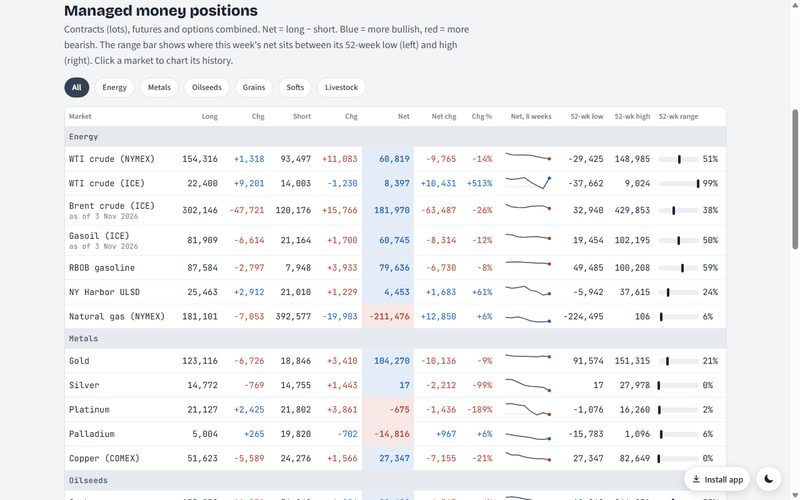
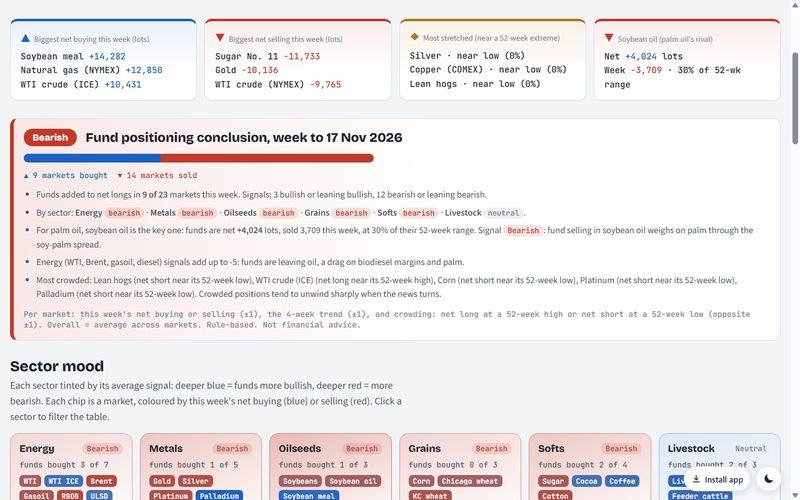
CFTC page: more colour - sector mood cards, who-bought/who-sold bar chart, heat-shaded table, accent cards, shaded net history

diff --git a/cftc-positions/index.html b/cftc-positions/index.html
@@ -20,7 +20,12 @@
   .wrap { max-width: 1560px; margin: 0 auto; display: grid; gap: 28px; }
   .asof { font: 500 13px var(--mono); color: var(--accent); }
   .kpis { display: grid; grid-template-columns: repeat(auto-fit, minmax(min(100%, 230px), 1fr)); gap: 12px; }
-  .kpi { background: var(--surface); border: 1px solid var(--line); border-radius: 12px; padding: 14px 16px; display: grid; gap: 6px; }
+  .kpi { background: var(--surface); border: 1px solid var(--line); border-top: 4px solid var(--s3); border-radius: 12px; padding: 14px 16px; display: grid; gap: 6px; box-shadow: 0 1px 2px rgba(0,0,0,.04); }
+  .kpi.kb { border-top-color: var(--gain); background: linear-gradient(180deg, color-mix(in srgb, var(--gain) 9%, var(--surface)), var(--surface) 70%); }
+  .kpi.ks { border-top-color: var(--loss); background: linear-gradient(180deg, color-mix(in srgb, var(--loss) 9%, var(--surface)), var(--surface) 70%); }
+  .kpi.ka { border-top-color: var(--gold); background: linear-gradient(180deg, color-mix(in srgb, var(--gold) 10%, var(--surface)), var(--surface) 70%); }
+  .kpi .ic { font: 700 18px var(--display); margin-right: 6px; }
+  .kb .ic { color: var(--gain); } .ks .ic { color: var(--loss); } .ka .ic { color: var(--gold); }
   .kpi .k { font-size: 13px; color: var(--muted); } .kpi .v { font: 500 14px/1.6 var(--mono); }
   section.block { display: grid; gap: 14px; }
   .sh { display: grid; gap: 4px; max-width: 82ch; } .sh h2 { font: 800 24px/1.15 var(--display); margin: 0; } .sh p { margin: 0; color: var(--ink-2); }
@@ -35,16 +40,29 @@
   td.nm, th.nm { text-align: left; }
   td.nm small { display: block; color: var(--muted); font-size: 11.5px; }
   td.num { font-family: var(--mono); }
-  tr.grp td { background: var(--accent-soft); color: var(--ink-2); font-weight: 600; text-align: left; font-size: 12.5px; letter-spacing: .02em; }
+  tr.grp td { border-left: 4px solid var(--s3); background: var(--accent-soft); color: var(--ink-2); font-weight: 600; text-align: left; font-size: 12.5px; letter-spacing: .02em; }
   tbody tr.row { cursor: pointer; } tbody tr.row:hover td { background: var(--accent-soft); } tr.sel td { background: var(--accent-soft); }
   td.c-pos { background: color-mix(in srgb, var(--gain) 12%, transparent); } td.c-neg { background: color-mix(in srgb, var(--loss) 12%, transparent); }
-  .rng { display: inline-block; width: 64px; height: 8px; border-radius: 4px; background: var(--grid); position: relative; vertical-align: middle; margin-right: 6px; }
+  .rng { display: inline-block; width: 64px; height: 8px; border-radius: 4px; background: linear-gradient(90deg, color-mix(in srgb, var(--loss) 55%, transparent), var(--grid) 50%, color-mix(in srgb, var(--gain) 55%, transparent)); position: relative; vertical-align: middle; margin-right: 6px; }
   .rng b { position: absolute; top: -3px; width: 4px; height: 14px; border-radius: 2px; background: var(--ink); margin-left: -2px; }
   .chartcard { position: relative; }
   .chartcard svg { width: 100%; height: auto; display: block; overflow: visible; }
   .chartcard svg text { font: 400 11px var(--mono); fill: var(--muted); }
   .tip { position: absolute; pointer-events: none; background: var(--surface); border: 1px solid var(--line); border-radius: 8px; padding: 7px 9px; font: 500 12px/1.5 var(--mono); color: var(--ink); box-shadow: 0 4px 14px rgba(0,0,0,.12); display: none; z-index: 5; white-space: nowrap; }
-  .verdict { display: grid; gap: 12px; border-left: 5px solid var(--muted); }
+  .verdict { display: grid; gap: 12px; border-left: 6px solid var(--muted); }
+  .verdict.bull { background: linear-gradient(100deg, color-mix(in srgb, var(--gain) 12%, var(--surface)), var(--surface) 55%); }
+  .verdict.bear { background: linear-gradient(100deg, color-mix(in srgb, var(--loss) 12%, var(--surface)), var(--surface) 55%); }
+  .split { display: flex; height: 14px; border-radius: 999px; overflow: hidden; background: var(--grid); max-width: 560px; }
+  .split i { display: block; height: 100%; } .split .b { background: var(--gain); } .split .s { background: var(--loss); } .split .n { background: var(--s3); opacity: .5; }
+  .splitl { display: flex; gap: 16px; flex-wrap: wrap; font: 500 12.5px var(--mono); color: var(--ink-2); }
+  .moods { display: grid; grid-template-columns: repeat(auto-fit, minmax(min(100%, 170px), 1fr)); gap: 12px; }
+  .mood { border-radius: 14px; padding: 14px; display: grid; gap: 8px; align-content: start; border: 1px solid var(--line); background: var(--surface); cursor: pointer; transition: transform .12s ease; }
+  .mood:hover { transform: translateY(-2px); }
+  .mood h3 { margin: 0; font: 700 16px var(--display); display: flex; justify-content: space-between; align-items: center; gap: 8px; }
+  .mood .mc { display: flex; flex-wrap: wrap; gap: 5px; align-items: flex-start; }
+  .mood .mc span { font: 600 11.5px var(--mono); padding: 2px 7px; border-radius: 6px; color: #fff; }
+  .flow svg text { font: 500 11.5px var(--mono); fill: var(--ink-2); }
+  .flow .bar { cursor: pointer; } .flow .bar:hover rect { opacity: .8; }
   .verdict.bull { border-left-color: var(--gain); } .verdict.bear { border-left-color: var(--loss); }
   .verdict .vh { display: flex; flex-wrap: wrap; align-items: center; gap: 10px 14px; }
   .badge-v { font: 700 15px var(--display); padding: 5px 14px; border-radius: 999px; color: #fff; background: var(--muted); }
@@ -54,6 +72,7 @@
   .verdict .sc { font: 500 12.5px var(--mono); color: var(--muted); }
   .sig { font: 600 12px var(--mono); padding: 1px 7px; border-radius: 999px; white-space: nowrap; }
   .sig.b { color: var(--gain); background: color-mix(in srgb, var(--gain) 14%, transparent); } .sig.s { color: var(--loss); background: color-mix(in srgb, var(--loss) 14%, transparent); } .sig.n { color: var(--muted); background: var(--grid); }
+  td .sig.b { color: #fff; background: var(--gain); } td .sig.s { color: #fff; background: var(--loss); }
   .src { font-size: 13.5px; color: var(--ink-2); display: grid; gap: 6px; } .src a { color: var(--accent); }
   .note { font-size: 12.5px; color: var(--muted); }
 </style>
@@ -72,6 +91,16 @@
   <div class="kpis" id="kpis"></div>
 
   <section class="card verdict" id="verdict" aria-live="polite"></section>
+
+  <section class="block">
+    <div class="sh"><h2>Sector mood</h2><p>Each sector tinted by its average signal: deeper blue = funds more bullish, deeper red = more bearish. Each chip is a market, coloured by this week's net buying (blue) or selling (red). Click a sector to filter the table.</p></div>
+    <div class="moods" id="moods"></div>
+  </section>
+
+  <section class="block">
+    <div class="sh"><h2>Who bought, who sold this week</h2><p>Change in the funds' net position as a share of each market's open interest, so big and small markets compare fairly. Click a bar to chart that market.</p></div>
+    <section class="card flow chartcard"><svg id="cFlow" role="img" aria-label="Weekly change in fund net positions by market"></svg><div class="tip" id="tipF"></div></section>
+  </section>
 
   <section class="block">
     <div class="sh"><h2 id="hT">Managed money positions</h2><p>Contracts (lots), futures and options combined. Net = long − short. Blue = more bullish, red = more bearish. The range bar shows where this week's net sits between its 52-week low (left) and high (right). Click a market to chart its history.</p></div>
@@ -122,14 +151,14 @@
     $('asof').textContent = 'Positions as of Tuesday ' + dl(D.latest) + ' · checked ' + D.updated.replace('T', ' ').replace('Z', ' UTC');
     var lag = rows.filter(function (r) { return r.d !== D.latest; });
     $('lagNote').textContent = lag.length ? lag.map(function (r) { return r.name; }).join(' and ') + ': latest figures are for ' + dl(lag[0].d) + '. ICE posts its history file a little later than the CFTC.' : '';
-    kpis(); verdict();
+    kpis(); verdict(); moods(); flows();
     var groups = ['All'].concat(rows.map(function (r) { return r.group; }).filter(function (g, i, a) { return a.indexOf(g) === i; }));
     if (groups.indexOf(filt) < 0) filt = 'All';
     $('chips').innerHTML = groups.map(function (g) { return '<button type="button" data-g="' + g + '" aria-pressed="' + (g === filt) + '">' + g + '</button>'; }).join('');
     Array.prototype.forEach.call($('chips').children, function (b) { b.onclick = function () { filt = b.dataset.g; store.set('cftcG', filt); Array.prototype.forEach.call($('chips').children, function (x) { x.setAttribute('aria-pressed', x === b); }); table(); }; });
     if (!rows.some(function (r) { return r.id === selId; })) selId = rows[0].id;
     table(); chart();
-    var t; addEventListener('resize', function () { clearTimeout(t); t = setTimeout(chart, 150); });
+    var t; addEventListener('resize', function () { clearTimeout(t); t = setTimeout(function () { chart(); flows(); }, 150); });
     if (window.matchMedia) matchMedia('(prefers-color-scheme: dark)').addEventListener('change', chart);
   }).catch(function (e) { $('asof').textContent = 'The data could not be loaded (' + e.message + ').'; });
 
@@ -175,8 +204,10 @@
       'Energy (WTI, Brent, gasoil, diesel) signals add up to ' + (enS > 0 ? '+' : '') + enS + ': ' + (enS >= 2 ? 'funds are leaning into oil, which helps biodiesel demand and palm.' : enS <= -2 ? 'funds are leaving oil, a drag on biodiesel margins and palm.' : 'mixed for oil, so little read-through to palm via biodiesel.'),
       crowd.length ? 'Most crowded: ' + crowd.join(', ') + '. Crowded positions tend to unwind sharply when the news turns.' : ''
     ].filter(Boolean);
+    var nB = cur.filter(function (r) { return r.nc > 0; }).length, nS = cur.filter(function (r) { return r.nc < 0; }).length, nN = cur.length - nB - nS;
+    var split = '<div class="split" title="markets where funds bought / sold this week"><i class="b" style="width:' + (nB / cur.length * 100) + '%"></i><i class="n" style="width:' + (nN / cur.length * 100) + '%"></i><i class="s" style="width:' + (nS / cur.length * 100) + '%"></i></div><div class="splitl"><span style="color:var(--gain)">▲ ' + nB + ' markets bought</span><span style="color:var(--loss)">▼ ' + nS + ' markets sold</span></div>';
     var box = $('verdict'); box.className = 'card verdict ' + v;
-    box.innerHTML = '<div class="vh"><span class="badge-v">' + word + '</span><h2>Fund positioning conclusion, week to ' + dl(D.latest) + '</h2></div><ul>' + pts.map(function (x) { return '<li>' + x + '</li>'; }).join('') + '</ul>' +
+    box.innerHTML = '<div class="vh"><span class="badge-v">' + word + '</span><h2>Fund positioning conclusion, week to ' + dl(D.latest) + '</h2></div>' + split + '<ul>' + pts.map(function (x) { return '<li>' + x + '</li>'; }).join('') + '</ul>' +
       '<span class="sc">Per market: this week\'s net buying or selling (±1), the 4-week trend (±1), and crowding: net long at a 52-week high or net short at a 52-week low (opposite ±1). Overall = average across markets. Rule-based. Not financial advice.</span>';
   }
 
@@ -187,10 +218,50 @@
     var ext = cur.slice().sort(function (a, b) { return Math.abs(b.where - 0.5) - Math.abs(a.where - 0.5); }).slice(0, 3);
     var so = rows.filter(function (r) { return r.id === 'soyoil'; })[0];
     $('kpis').innerHTML =
-      '<div class="kpi"><span class="k">Biggest net buying this week (lots)</span><span class="v">' + top(by.slice(0, 3)) + '</span></div>' +
-      '<div class="kpi"><span class="k">Biggest net selling this week (lots)</span><span class="v">' + top(by.slice(-3).reverse()) + '</span></div>' +
-      '<div class="kpi"><span class="k">Most stretched (near a 52-week extreme)</span><span class="v">' + ext.map(function (r) { return r.name + ' · ' + (r.where >= 0.5 ? 'near high' : 'near low') + ' (' + Math.round(r.where * 100) + '%)'; }).join('<br>') + '</span></div>' +
-      (so ? '<div class="kpi"><span class="k">Soybean oil (palm oil\'s rival)</span><span class="v">Net <span class="' + cls(so.net) + '">' + sg(so.net) + '</span> lots<br>Week <span class="' + cls(so.nc) + '">' + sg(so.nc) + '</span> · ' + Math.round(so.where * 100) + '% of 52-wk range</span></div>' : '');
+      '<div class="kpi kb"><span class="k"><span class="ic">▲</span>Biggest net buying this week (lots)</span><span class="v">' + top(by.slice(0, 3)) + '</span></div>' +
+      '<div class="kpi ks"><span class="k"><span class="ic">▼</span>Biggest net selling this week (lots)</span><span class="v">' + top(by.slice(-3).reverse()) + '</span></div>' +
+      '<div class="kpi ka"><span class="k"><span class="ic">◆</span>Most stretched (near a 52-week extreme)</span><span class="v">' + ext.map(function (r) { return r.name + ' · ' + (r.where >= 0.5 ? 'near high' : 'near low') + ' (' + Math.round(r.where * 100) + '%)'; }).join('<br>') + '</span></div>' +
+      (so ? '<div class="kpi ' + (so.nc >= 0 ? 'kb' : 'ks') + '"><span class="k"><span class="ic">' + (so.nc >= 0 ? '▲' : '▼') + '</span>Soybean oil (palm oil\'s rival)</span><span class="v">Net <span class="' + cls(so.net) + '">' + sg(so.net) + '</span> lots<br>Week <span class="' + cls(so.nc) + '">' + sg(so.nc) + '</span> · ' + Math.round(so.where * 100) + '% of 52-wk range</span></div>' : '');
+  }
+
+  var SHORT = { wti: 'WTI', wtiice: 'WTI ICE', brent: 'Brent', gasoil: 'Gasoil', rbob: 'RBOB', ulsd: 'ULSD', natgas: 'Nat gas', wheat: 'Chicago wheat', kcwheat: 'KC wheat', sugar: 'Sugar', cocoa: 'Cocoa', coffee: 'Coffee', cotton: 'Cotton', copper: 'Copper' };
+  function moodOf(g) { var a = rows.filter(function (r) { return r.group === g && r.d === D.latest; }); if (!a.length) a = rows.filter(function (r) { return r.group === g; }); return a.reduce(function (x, r) { return x + r.score; }, 0) / (a.length || 1); }
+
+  function moods() {
+    var groups = rows.map(function (r) { return r.group; }).filter(function (g, i, a) { return a.indexOf(g) === i; });
+    $('moods').innerHTML = groups.map(function (g) {
+      var m = moodOf(g), a = Math.min(1, Math.abs(m) / 1.5), col = m >= 0 ? 'gain' : 'loss', mk = rows.filter(function (r) { return r.group === g; });
+      var bg = 'background:linear-gradient(160deg, color-mix(in srgb, var(--' + col + ') ' + Math.round(8 + a * 30) + '%, var(--surface)), var(--surface));border-color:color-mix(in srgb, var(--' + col + ') ' + Math.round(20 + a * 40) + '%, var(--line))';
+      var word = m >= 0.5 ? 'Bullish' : m <= -0.5 ? 'Bearish' : 'Neutral';
+      var bought = mk.filter(function (r) { return r.nc > 0; }).length;
+      return '<div class="mood" role="button" tabindex="0" data-g="' + g + '" style="' + bg + '"><h3>' + g + '<span class="sig ' + (m >= 0.5 ? 'b' : m <= -0.5 ? 's' : 'n') + '">' + word + '</span></h3>' +
+        '<span style="font:500 12.5px var(--mono);color:var(--ink-2)">funds bought ' + bought + ' of ' + mk.length + '</span><div class="mc">' +
+        mk.map(function (r) { var t = Math.min(1, Math.abs(r.nc) / ((r.oi || r.l + r.s) * 0.03)); return '<span title="' + r.name + ': ' + sg(r.nc) + ' lots this week" style="background:color-mix(in srgb, var(--' + (r.nc >= 0 ? 'gain' : 'loss') + ') ' + Math.round(45 + t * 55) + '%, var(--s3))">' + (SHORT[r.id] || r.name.replace(/ \(.*\)/, '')) + '</span>'; }).join('') + '</div></div>';
+    }).join('');
+    Array.prototype.forEach.call($('moods').children, function (el) {
+      var go = function () { filt = el.dataset.g; store.set('cftcG', filt); Array.prototype.forEach.call($('chips').children, function (x) { x.setAttribute('aria-pressed', x.dataset.g === filt); }); table(); scrollTo({ top: $('hT').getBoundingClientRect().top + scrollY - 20, behavior: 'smooth' }); };
+      el.onclick = go; el.onkeydown = function (e) { if (e.key === 'Enter' || e.key === ' ') { e.preventDefault(); go(); } };
+    });
+  }
+
+  function flows() {
+    var svg = $('cFlow'), list = rows.map(function (r) { return { r: r, v: r.nc / (r.oi || r.l + r.s) * 100 }; }).sort(function (a, b) { return b.v - a.v; });
+    var W = Math.max(320, svg.parentNode.clientWidth - 32), rh = 22, H = list.length * rh + 30, lab = Math.min(170, W * 0.32), mid = lab + (W - lab - 60) / 2;
+    var mx = Math.max.apply(null, list.map(function (x) { return Math.abs(x.v); })) || 1, sc = (W - lab - 60) / 2 / mx;
+    svg.innerHTML = ''; svg.setAttribute('viewBox', '0 0 ' + W + ' ' + H);
+    var NSs = 'http://www.w3.org/2000/svg', mk = function (t, a, p) { var e = document.createElementNS(NSs, t); for (var k in a) e.setAttribute(k, a[k]); (p || svg).appendChild(e); return e; };
+    mk('line', { x1: mid, x2: mid, y1: 4, y2: H - 22, stroke: css('--axis') });
+    mk('text', { x: mid - 8, y: H - 6, 'text-anchor': 'end' }).textContent = '◀ funds sold';
+    mk('text', { x: mid + 8, y: H - 6 }).textContent = 'funds bought ▶';
+    list.forEach(function (x, i) {
+      var y = 6 + i * rh, w = Math.abs(x.v) * sc, pos = x.v >= 0, g = mk('g', { class: 'bar' }), a = Math.min(1, Math.abs(x.v) / mx);
+      mk('text', { x: lab - 8, y: y + 14, 'text-anchor': 'end' }, g).textContent = x.r.name;
+      mk('rect', { x: pos ? mid : mid - w, y: y + 2, width: Math.max(1.5, w), height: rh - 6, rx: 3, fill: css(pos ? '--gain' : '--loss'), opacity: (0.45 + a * 0.55).toFixed(2) }, g);
+      mk('text', { x: pos ? mid + w + 6 : mid - w - 6, y: y + 14, 'text-anchor': pos ? 'start' : 'end' }, g).textContent = (pos ? '+' : '−') + Math.abs(x.v).toFixed(1) + '%';
+      g.onclick = function () { selId = x.r.id; store.set('cftcM', selId); table(); chart(); scrollTo({ top: $('hC').getBoundingClientRect().top + scrollY - 20, behavior: 'smooth' }); };
+      g.onmousemove = function (e) { var t = $('tipF'), cr = svg.parentNode.getBoundingClientRect(); t.innerHTML = '<b>' + x.r.name + '</b>' + (x.r.d !== D.latest ? ' (as of ' + dl(x.r.d) + ')' : '') + '<br>Net change ' + sg(x.r.nc) + ' lots<br>= ' + (x.v >= 0 ? '+' : '−') + Math.abs(x.v).toFixed(2) + '% of open interest<br>Net now ' + sgn(x.r.net) + '<br>Signal: ' + x.r.sig.w; t.style.display = 'block'; var tx = e.clientX - cr.left + 14; if (tx + t.offsetWidth > cr.width - 6) tx = e.clientX - cr.left - t.offsetWidth - 14; t.style.left = Math.max(4, tx) + 'px'; t.style.top = (e.clientY - cr.top + 12) + 'px'; };
+      g.onmouseleave = function () { $('tipF').style.display = 'none'; };
+    });
   }
 
   function spark(v) {
@@ -205,14 +276,16 @@
   function table() {
     var shown = rows.filter(function (r) { return filt === 'All' || r.group === filt; }), html = '', g = '';
     shown.forEach(function (r) {
-      if (r.group !== g) { g = r.group; html += '<tr class="grp"><td colspan="15">' + g + '</td></tr>'; }
+      if (r.group !== g) { g = r.group; var ms = moodOf(g); html += '<tr class="grp"><td colspan="15" style="border-left-color:' + (ms >= 0.5 ? 'var(--gain)' : ms <= -0.5 ? 'var(--loss)' : 'var(--s3)') + '">' + g + ' · ' + (ms >= 0.5 ? 'bullish' : ms <= -0.5 ? 'bearish' : 'neutral') + '</td></tr>'; }
       var cc = function (v) { return v > 0 ? 'c-pos' : v < 0 ? 'c-neg' : ''; };
+      var heat = function (v, full) { if (v == null || !isFinite(v) || v === 0) return ''; var a = Math.min(1, Math.abs(v) / full); return ' style="background:color-mix(in srgb, var(--' + (v > 0 ? 'gain' : 'loss') + ') ' + Math.round(6 + a * 30) + '%, transparent)"'; };
+      var oi = r.oi || (r.l + r.s);
       html += '<tr class="row' + (r.id === selId ? ' sel' : '') + '" data-id="' + r.id + '"><td class="nm">' + r.name + (r.d !== D.latest ? ' <small>as of ' + dl(r.d) + '</small>' : '') + '</td>' +
         '<td class="num">' + nf(r.l) + '</td><td class="num ' + cls(r.lc) + '">' + sg(r.lc) + '</td>' +
         '<td class="num">' + nf(r.s) + '</td><td class="num ' + cls(-r.sc) + '">' + sg(r.sc) + '</td>' +
-        '<td class="num ' + cc(r.net) + ' ' + cls(r.net) + '"><b>' + sgn(r.net) + '</b></td><td class="num ' + cls(r.nc) + '">' + sg(r.nc) + '</td><td class="num ' + cls(r.pct) + '">' + pc(r.pct) + '</td>' +
+        '<td class="num ' + cc(r.net) + ' ' + cls(r.net) + '"><b>' + sgn(r.net) + '</b></td><td class="num ' + cls(r.nc) + '"' + heat(r.nc / oi, 0.04) + '>' + sg(r.nc) + '</td><td class="num ' + cls(r.pct) + '"' + heat(r.pct, 0.5) + '>' + pc(r.pct) + '</td>' +
         '<td>' + spark(r.spark) + '</td><td class="num">' + sgn(r.hi) + '</td><td class="num">' + sgn(r.lo) + '</td>' +
-        '<td class="num ' + cls(r.relmax) + '">' + (r.relmax == null ? '–' : Math.abs(r.relmax) > 10 ? '<span title="the 52-week high is tiny, so the ratio is not meaningful">n/m</span>' : Math.round(r.relmax * 100) + '%') + '</td><td class="num ' + cls(r.pxc) + '"' + (r.px != null ? ' title="' + r.px.toLocaleString('en') + ' on ' + dl(r.d) + '"' : '') + '>' + (r.pxc == null ? '–' : Math.abs(r.pxc) < 0.0005 ? '0.0%' : (r.pxc > 0 ? '+' : '−') + Math.abs(r.pxc * 100).toFixed(1) + '%') + '</td>' +
+        '<td class="num ' + cls(r.relmax) + '">' + (r.relmax == null ? '–' : Math.abs(r.relmax) > 10 ? '<span title="the 52-week high is tiny, so the ratio is not meaningful">n/m</span>' : Math.round(r.relmax * 100) + '%') + '</td><td class="num ' + cls(r.pxc) + '"' + heat(r.pxc, 0.06) + (r.px != null ? ' title="' + r.px.toLocaleString('en') + ' on ' + dl(r.d) + '"' : '') + '>' + (r.pxc == null ? '–' : Math.abs(r.pxc) < 0.0005 ? '0.0%' : (r.pxc > 0 ? '+' : '−') + Math.abs(r.pxc * 100).toFixed(1) + '%') + '</td>' +
         '<td class="nm"><span class="rng" title="' + Math.round(r.where * 100) + '% of the 52-week range"><b style="left:' + (r.where * 100).toFixed(0) + '%"></b></span><span class="num">' + Math.round(r.where * 100) + '%</span></td><td class="nm"><span class="sig ' + r.sig.c + '" title="' + r.sig.why + '">' + r.sig.w + '</span></td></tr>';
     });
     $('tb').innerHTML = html;
@@ -245,6 +318,12 @@
     var line = function (f, color, w) { el('path', { d: H.map(function (q, i) { return (i ? 'L' : 'M') + x(q[0]).toFixed(1) + ' ' + y(f(q)).toFixed(1); }).join(''), fill: 'none', stroke: color, 'stroke-width': w }, svg); };
     line(function (q) { return q[1]; }, css('--blue'), 1.6);
     line(function (q) { return q[2]; }, css('--loss'), 1.6);
+    var id = 'cl' + Math.random().toString(36).slice(2, 7), defs = el('defs', {}, svg), zy = y(0);
+    el('rect', { x: 0, y: 0, width: W, height: Math.max(0, zy) }, el('clipPath', { id: id + 'u' }, defs));
+    el('rect', { x: 0, y: zy, width: W, height: Math.max(0, HH - zy) }, el('clipPath', { id: id + 'd' }, defs));
+    var area = H.map(function (q, i) { return (i ? 'L' : 'M') + x(q[0]).toFixed(1) + ' ' + y(q[1] - q[2]).toFixed(1); }).join('') + 'L' + x(H[H.length - 1][0]).toFixed(1) + ' ' + zy + 'L' + x(H[0][0]).toFixed(1) + ' ' + zy + 'Z';
+    el('path', { d: area, fill: css('--gain'), opacity: 0.18, 'clip-path': 'url(#' + id + 'u)' }, svg);
+    el('path', { d: area, fill: css('--loss'), opacity: 0.18, 'clip-path': 'url(#' + id + 'd)' }, svg);
     line(function (q) { return q[1] - q[2]; }, css('--ink'), 2.4);
     var last = H[H.length - 1];
     el('circle', { cx: x(last[0]), cy: y(last[1] - last[2]), r: 4, fill: css('--ink'), stroke: css('--surface'), 'stroke-width': 2 }, svg);
